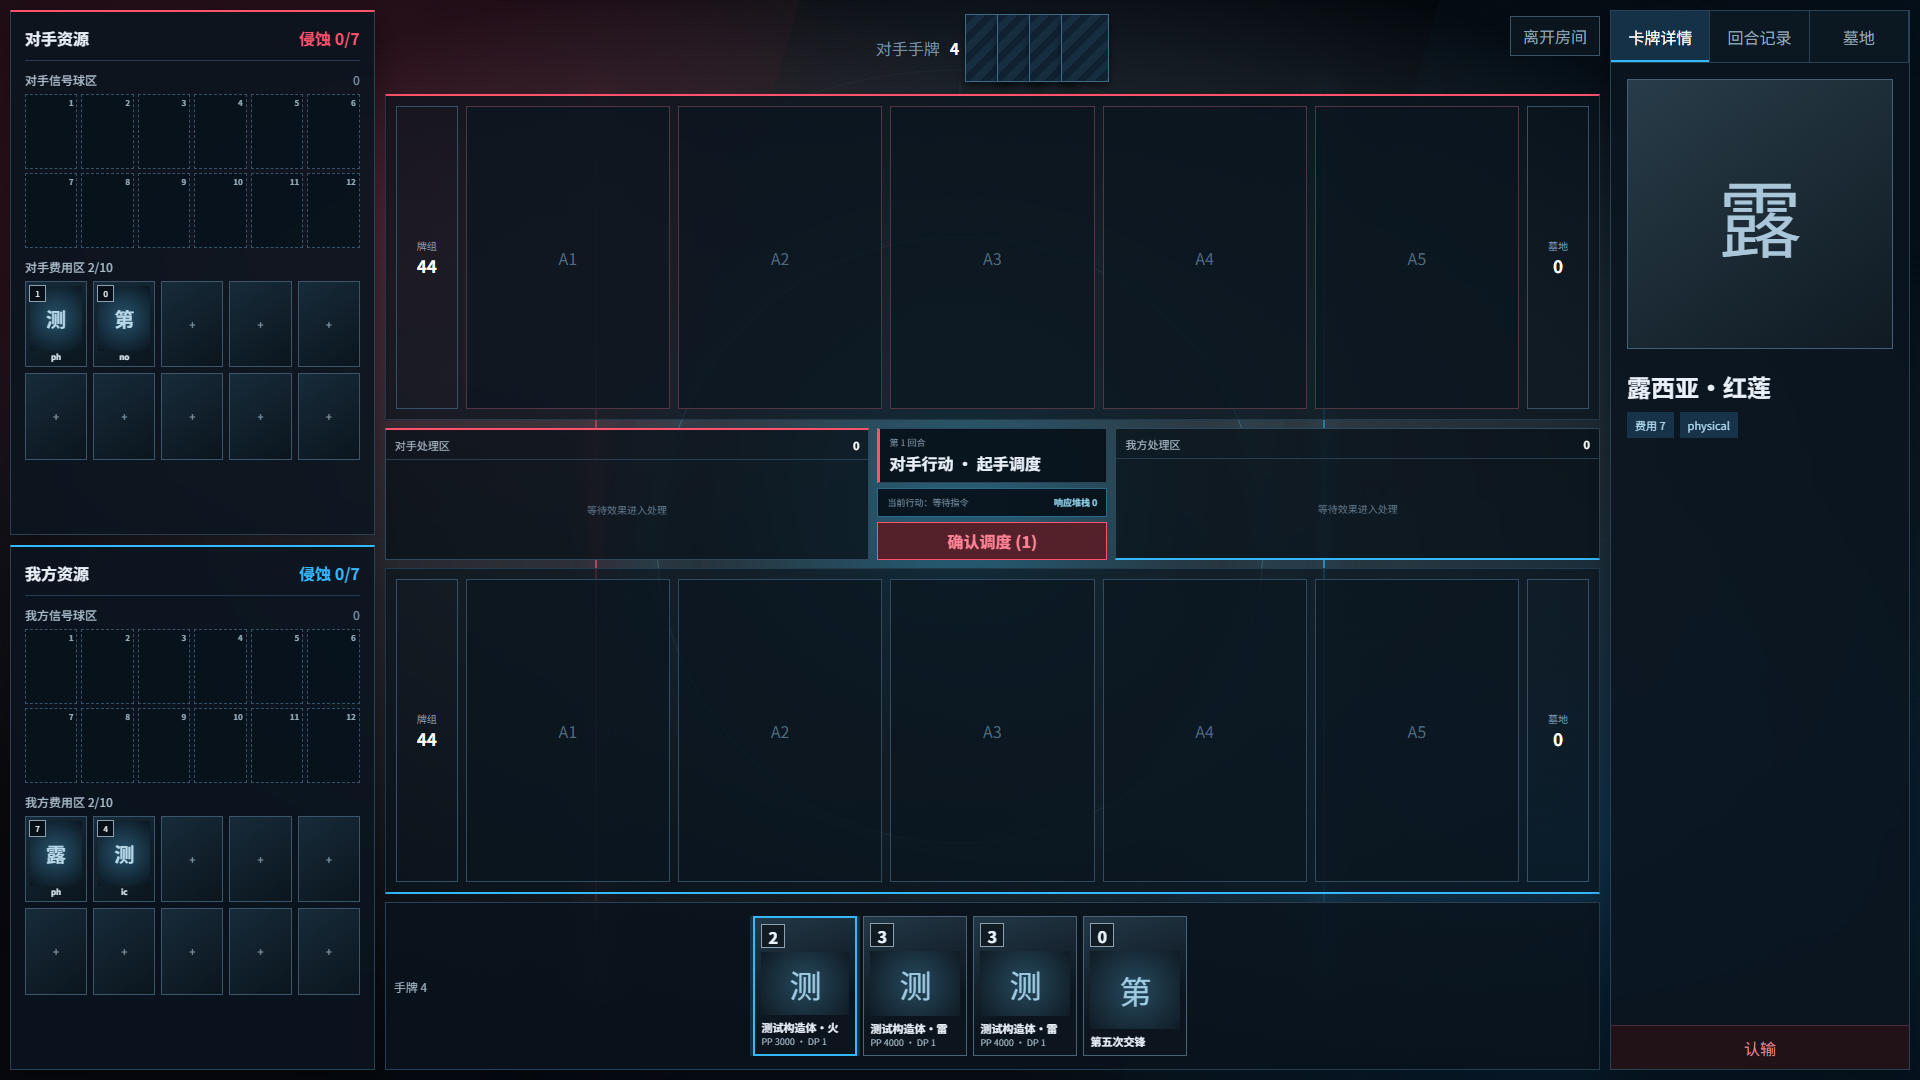
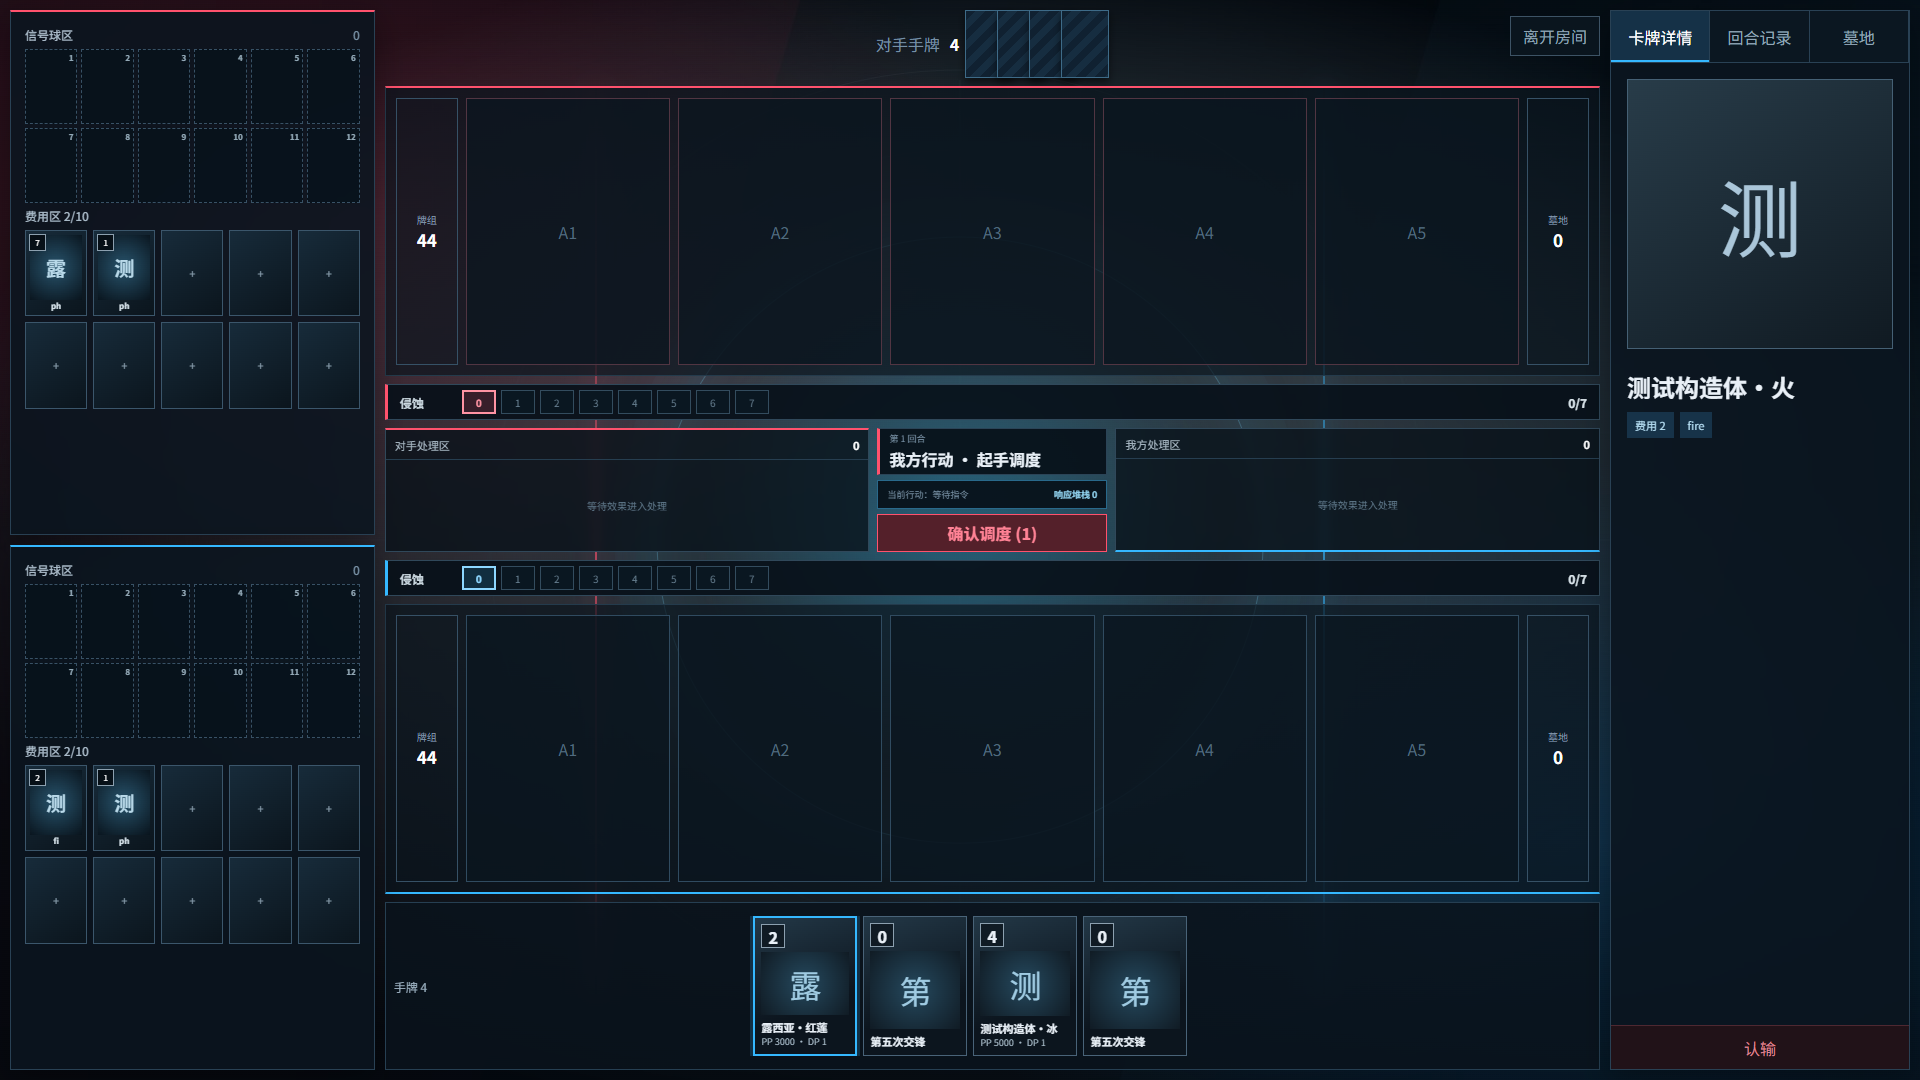
feat: move corruption progress into battlefield

diff --git a/apps/web/src/styles.css b/apps/web/src/styles.css
@@ -65,13 +65,10 @@ button { color: inherit; }
 .resource-rail, .battle-center, .inspector { min-width: 0; }
 .resource-rail { display: grid; grid-template-rows: 1fr 1fr; gap: 10px; }
 .resource-panel, .inspector { background: rgba(10, 21, 31, .88); border: 1px solid var(--line); box-shadow: 0 8px 30px #0005; backdrop-filter: blur(8px); }
-.resource-panel { padding: 14px; overflow: hidden; }
+.resource-panel { padding: 10px 14px 14px; overflow: hidden; }
 .resource-panel.opponent { border-top: 2px solid var(--coral); }
 .resource-panel.self { border-top: 2px solid var(--cyan); }
-.resource-panel header { display: flex; justify-content: space-between; align-items: center; border-bottom: 1px solid #263c4d; padding-bottom: 10px; }
-.resource-panel header span { font-weight: 700; color: var(--coral); }
-.resource-panel.self header span { color: var(--cyan); }
-.resource-panel h3 { margin: 10px 0 6px; font-size: 12px; color: #a9bac8; font-weight: 500; }
+.resource-panel h3 { margin: 4px 0 6px; font-size: 12px; color: #a9bac8; font-weight: 500; }
 .resource-panel h3 em { float: right; color: var(--muted); font-style: normal; }
 .signal-grid { display: grid; grid-template-columns: repeat(6, 1fr); gap: 4px; }
 .signal-slot { aspect-ratio: .7; min-width: 0; padding: 4px; display: grid; grid-template-rows: 1fr auto; place-items: center; border: 1px dashed #385165; background: rgba(7, 18, 27, .86); color: #536b7d; font-weight: 800; cursor: pointer; position: relative; overflow: hidden; }
@@ -93,7 +90,7 @@ button { color: inherit; }
 .signal-slot > strong, .energy-slot > strong { width: 100%; overflow: hidden; color: #d8e4eb; font-size: 8px; text-overflow: ellipsis; white-space: nowrap; text-align: center; }
 .payment-mark { position: absolute; right: 2px; bottom: 2px; padding: 1px 3px; background: var(--gold); color: #211a05; font-size: 8px; }
 
-.battle-center { display: grid; grid-template-rows: 76px minmax(148px, 1fr) 132px minmax(148px, 1fr) 168px; gap: 8px; }
+.battle-center { display: grid; grid-template-rows: 68px minmax(140px, 1fr) 36px 124px 36px minmax(140px, 1fr) 168px; gap: 8px; }
 .opponent-hand { display: flex; align-items: center; justify-content: center; gap: 10px; color: var(--muted); }
 .opponent-hand strong { color: white; }
 .card-backs { display: flex; margin-left: 12px; }
@@ -105,6 +102,16 @@ button { color: inherit; }
 .field-row.opponent .field-slot { border-color: #513542; }
 .deck-pile, .grave-pile { display: flex; flex-direction: column; align-items: center; justify-content: center; border: 1px solid #365166; color: #8197a9; font-size: 10px; }
 .deck-pile strong, .grave-pile strong { font-size: 17px; color: white; }
+.corruption-bar { display: grid; grid-template-columns: 52px minmax(0, 1fr) 42px; gap: 10px; align-items: center; padding: 4px 12px; border: 1px solid #30485a; background: rgba(7, 16, 24, .9); backdrop-filter: blur(5px); }
+.corruption-bar.opponent { border-left: 3px solid var(--coral); }
+.corruption-bar.self { border-left: 3px solid var(--cyan); }
+.corruption-bar > strong { color: #cbd8e0; font-size: 12px; }
+.corruption-bar > b { text-align: right; color: #dce7ed; font-size: 12px; }
+.corruption-cells { display: grid; grid-template-columns: repeat(8, minmax(22px, 34px)); gap: 5px; justify-content: start; }
+.corruption-cells i { height: 24px; display: grid; place-items: center; border: 1px solid #334c5e; background: #0a1721; color: #657d8e; font-size: 10px; font-style: normal; }
+.corruption-bar.opponent .corruption-cells i.filled { border-color: #8d3d50; background: rgba(255, 82, 109, .18); color: #ff93a3; }
+.corruption-bar.self .corruption-cells i.filled { border-color: #2477a2; background: rgba(53, 184, 255, .16); color: #8dd7ff; }
+.corruption-cells i.current { outline: 2px solid currentColor; outline-offset: -2px; font-weight: 800; }
 .slot-action { position: absolute; z-index: 2; right: 4px; bottom: 4px; border: 1px solid var(--gold); background: rgba(42, 34, 12, .94); color: #ffe69b; font-size: 9px; padding: 4px 6px; cursor: pointer; }
 .processing-console { min-height: 0; display: grid; grid-template-columns: minmax(0, 1fr) 230px minmax(0, 1fr); gap: 8px; position: relative; overflow: hidden; }
 .processing-zone { min-width: 0; display: grid; grid-template-rows: 30px 1fr; border: 1px solid #30485a; background: rgba(7, 16, 24, .76); backdrop-filter: blur(5px); }
@@ -170,7 +177,10 @@ button { color: inherit; }
 
 @media (max-height: 800px) {
   .battlefield-shell { grid-template-columns: 320px minmax(630px, 1fr) 270px; }
-  .battle-center { grid-template-rows: 50px minmax(126px, 1fr) 108px minmax(126px, 1fr) 132px; }
+  .battle-center { grid-template-rows: 46px minmax(112px, 1fr) 28px 94px 28px minmax(112px, 1fr) 132px; gap: 6px; }
+  .corruption-bar { grid-template-columns: 42px minmax(0, 1fr) 34px; gap: 6px; padding: 2px 8px; }
+  .corruption-cells { gap: 3px; }
+  .corruption-cells i { height: 20px; }
   .processing-console { grid-template-columns: minmax(0, 1fr) 200px minmax(0, 1fr); }
   .processing-cards .mini-card { width: 56px; height: 72px; flex-basis: 56px; }
   .action-console { grid-template-rows: minmax(0, 1fr) auto 34px; gap: 3px; }

diff --git a/apps/web/src/Battlefield.tsx b/apps/web/src/Battlefield.tsx
@@ -34,12 +34,10 @@ function ResourcePanel({ board, side, onView, onPayment, paymentIds, onEliminate
   paymentIds: Set<string>;
   onEliminate?: () => void;
 }) {
-  const title = side === 'self' ? '我方' : '对手';
   const signalSlots = Math.max(12, board.signals.length);
   return (
-    <section className={`resource-panel ${side}`}>
-      <header><strong>{title}资源</strong><span>侵蚀 {board.corruption}/7</span></header>
-      <h3>{title}信号球区 <em>{board.signals.length}</em></h3>
+    <section className={`resource-panel ${side}`} aria-label={side === 'self' ? '蓝方资源' : '红方资源'}>
+      <h3>信号球区 <em>{board.signals.length}</em></h3>
       <div className="signal-grid">
         {Array.from({ length: signalSlots }, (_, index) => {
           const card = board.signals[index];
@@ -53,7 +51,7 @@ function ResourcePanel({ board, side, onView, onPayment, paymentIds, onEliminate
         })}
       </div>
       {onEliminate && <button className="eliminate-signals" onClick={onEliminate}>三消前3张 · 抽1张</button>}
-      <h3>{title}费用区 {board.energy.length}/10</h3>
+      <h3>费用区 {board.energy.length}/10</h3>
       <div className="energy-grid">
         {Array.from({ length: 10 }, (_, index) => {
           const card = board.energy[index];
@@ -65,6 +63,10 @@ function ResourcePanel({ board, side, onView, onPayment, paymentIds, onEliminate
       </div>
     </section>
   );
+}
+
+function CorruptionBar({ corruption, side }: { corruption: number; side: 'opponent' | 'self' }) {
+  return <section className={`corruption-bar ${side}`} data-corruption-track={side}><strong>侵蚀</strong><div className="corruption-cells">{Array.from({ length: 8 }, (_, value) => <i key={value} data-corruption-cell={value} className={`${value <= corruption ? 'filled' : ''} ${value === corruption ? 'current' : ''}`}>{value}</i>)}</div><b>{corruption}/7</b></section>;
 }
 
 function FieldRow({ board, side, selectedId, onCard, getAction, onAction }: {
@@ -171,6 +173,7 @@ export function Battlefield({ view, onCommand }: BattlefieldProps) {
       <section className="battle-center">
         <div className="opponent-hand"><span>对手手牌</span><strong>{'count' in view.opponent.hand ? view.opponent.hand.count : view.opponent.hand.length}</strong><div className="card-backs">{Array.from({ length: Math.min(7, 'count' in view.opponent.hand ? view.opponent.hand.count : 0) }, (_, index) => <i key={index} />)}</div></div>
         <FieldRow board={view.opponent} side="opponent" selectedId={detailCardId} onCard={viewCard} />
+        <CorruptionBar corruption={view.opponent.corruption} side="opponent" />
         <section className="processing-console">
           <ProcessingZone board={view.opponent} side="opponent" selectedId={detailCardId} onCard={viewCard} />
           <section className="action-console">
@@ -180,6 +183,7 @@ export function Battlefield({ view, onCommand }: BattlefieldProps) {
           </section>
           <ProcessingZone board={view.self} side="self" selectedId={detailCardId} onCard={viewCard} />
         </section>
+        <CorruptionBar corruption={view.self.corruption} side="self" />
         <FieldRow board={view.self} side="self" selectedId={detailCardId} onCard={viewCard} getAction={fieldActionAt} onAction={onCommand} />
         <div className="hand-zone">
           <span className="hand-count">手牌 {hand.length}</span>

diff --git a/apps/web/src/battlefield.test.tsx b/apps/web/src/battlefield.test.tsx
@@ -22,14 +22,17 @@ describe('Battlefield', () => {
     expect(html.match(/data-field-slot=/g)).toHaveLength(10);
     expect(html.match(/data-energy-slot=/g)).toHaveLength(20);
     expect(html.match(/data-signal-slot=/g)).toHaveLength(24);
-    expect(html).toContain('对手信号球区');
-    expect(html).toContain('我方费用区');
+    expect(html.match(/data-corruption-cell=/g)).toHaveLength(16);
+    expect(html.match(/信号球区/g)).toHaveLength(2);
+    expect(html.match(/费用区/g)).toHaveLength(2);
     expect(html).toContain('卡牌详情');
     expect(html).toContain('回合记录');
     expect(html).toContain('墓地');
     expect(html).toContain('认输');
     expect(html).toContain('对手处理区');
     expect(html).toContain('我方处理区');
+    expect(html).not.toContain('对手资源');
+    expect(html).not.toContain('我方资源');
   });
 
   test('renders public resource cards as detail buttons while opponent hand stays hidden', () => {

diff --git a/开发记录.md b/开发记录.md
@@ -81,3 +81,14 @@
 - 视觉检查：已检查1920×1080和1280×720截图；资源卡明显放大，中央区域无重叠，背景保留暗色遮罩以保证卡牌可读性。
 - 下一步：项目方提供正式战场背景后直接覆盖同名 JPG；提供正式卡图后再将资源卡缩略图从程序化占位替换为真实素材。
 
+## 2026-11-09 〔主窗口〕中央侵蚀进度条与资源区留白
+
+- 任务：移除资源栏中重复的阵营文字，使用红蓝颜色区分；将侵蚀度移到中央，并解决费用卡贴近底边产生的视觉裁切。
+- 完成内容：左侧两组资源面板不再显示“我方资源/对方资源”，只保留红、蓝顶边；信号球区和费用区标题改为通用名称。移除原资源头部后释放垂直空间，并缩小内部标题间距。
+- 中央侵蚀条：在对手战场下方和我方战场上方分别增加侵蚀条；每条包含0–7共8个格子，已推进格与当前格使用对应阵营颜色、边框和形状同时表达状态，并显示当前数值 `/7`。
+- 修改文件：`apps/web/src/Battlefield.tsx`、`apps/web/src/styles.css`、`apps/web/src/battlefield.test.tsx`、`docs/design/battlefield-mvp-1920.png`。
+- TDD证据：组件测试先因缺少 `data-corruption-cell` 得到空目标失败；实现后渲染双方共16个侵蚀格，且不再输出“我方资源/对方资源”。
+- 验证：`npm.cmd test` 通过（27/27）；`npm.cmd run typecheck`、`npm.cmd run lint`、`npm.cmd run build` 均通过；`npm.cmd run test:e2e` 通过（1/1）。
+- 视觉检查：1920×1080和1280×720下两条侵蚀进度均位于中央；左侧费用区下方有完整留白，资源卡面、中央五格、处理区、手牌与详情栏无重叠。
+- 下一步：后续实际对战中可根据侵蚀变化补充格子推进动画和败北临界提示。
+
